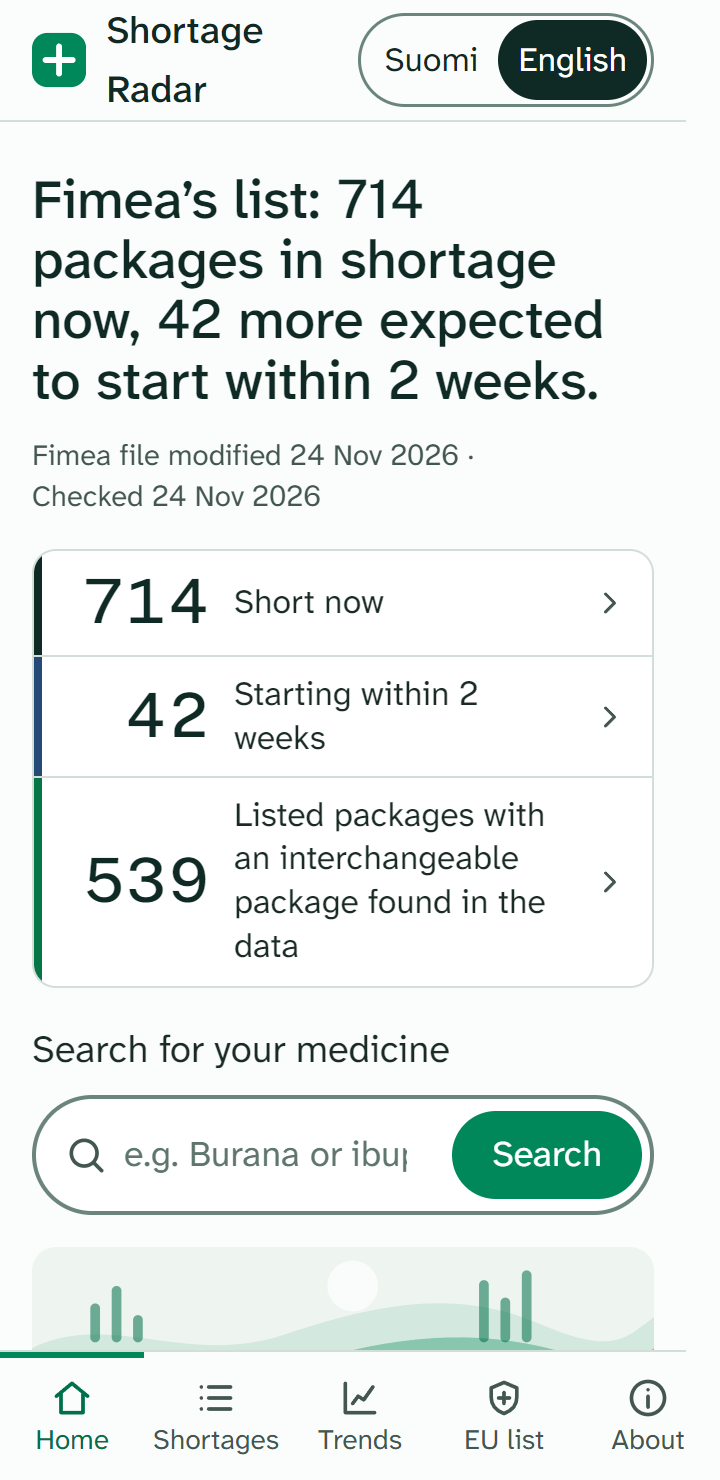
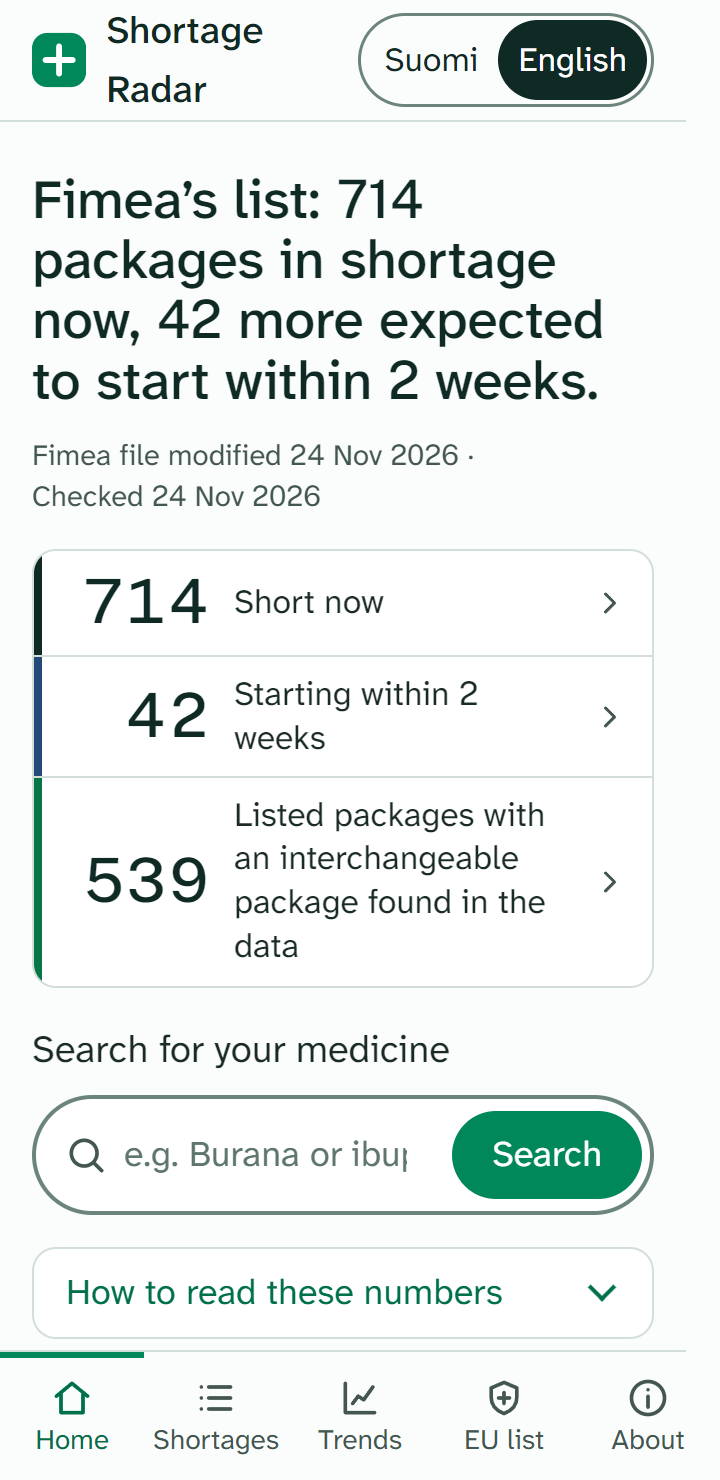
Home: saved tile links, generic status, third-count wording, Finnish notes position
A saved tile link now uses the loaded capture date when it is older, says so
on the list, and shows the count date and two-week scope. Picking a status by
hand drops the hidden tile date and window; search and sort keep them. The
third count is named as all listed packages, including starts after 2 weeks,
and Home states the count date. The notes dropdown comes before the picture so
the Finnish label stays above the bottom bar at 360 x 800.

Changed region(s): [[0.0611, 0.8392, 0.9167, 0.9324]]

diff --git a/site/i18n.js b/site/i18n.js
@@ -223,7 +223,7 @@ const copy = {
     stripNow: "Short now",
     stripSoon: "Starting within 2 weeks",
     stripSub: "Listed packages with an interchangeable package found in the data",
-    stripSubNote: "The third count is listed packages, short now or expected to start, for which Shortage Radar’s check found an interchangeable package in the data. It counts the listed packages, not the alternatives.",
+    stripSubNote: "The third count is listed packages, short now or expected to start (including any that start after 2 weeks), for which Shortage Radar’s check found an interchangeable package in the data. It counts the listed packages, not the alternatives.",
     heroFile: d=>`Fimea file modified ${d}`,
     heroChecked: d=>`Checked ${d}`,
     searchButton: "Search",
@@ -436,7 +436,10 @@ const copy = {
     impactCard_no_alternative: "No interchangeable package found in the data: no other package in its substitution group meets the check (on the market and not short in the register, and not on the shortage list). This does not mean there is no treatment. Talk to your pharmacist or doctor before your medicine runs out.",
     impactCard_nogroup: "No substitution group. Ask your pharmacist.",
     impactCard_vet: "Veterinary medicine. Ask your veterinarian or pharmacy.",
-    heroAnswer: n => `For ${numberText(n)} of them, the check found another package of the group that the register marks as on the market and not short, and that is not on the shortage list.`,
+    heroAnswer: n => `Of all packages on Fimea’s list, including any that start after 2 weeks: for ${numberText(n)}, the check found another package of the group that the register marks as on the market and not short, and that is not on the shortage list.`,
+    stripAsOf: d => `Counts are as of ${d}. “Starting within 2 weeks” means a start date up to 14 days after that date.`,
+    tileNote: (d, within) => `Counted as of ${d}${within ? `. Shows packages that start within ${within === 14 ? '2 weeks' : `${within} days`} after that date` : ''}.`,
+    tileNoteChanged: (saved, used) => `This link was saved for the data of ${saved}. The list now uses the newer data of ${used}.`,
     triageNote_substitute: "Another package in the group meets the check.",
     triageNote_no_alternative: "No other package in the group meets the check. Talk to your pharmacist or doctor before your medicine runs out.",
     triageNote_nogroup: "Often hospital medicines or medicines from one company. Ask your pharmacist.",
@@ -705,7 +708,7 @@ const copy = {
     stripNow: "Häiriö nyt",
     stripSoon: "Alkamassa 2 viikon kuluessa",
     stripSub: "Listan pakkaukset, joille aineistosta löytyy vaihtokelpoinen pakkaus",
-    stripSubNote: "Kolmas luku on listan pakkaukset, joilla on häiriö nyt tai joiden häiriön odotetaan alkavan ja joille Saatavuustutkan tarkistus löysi aineistosta vaihtokelpoisen pakkauksen. Se laskee listan pakkaukset, ei vaihtoehtoja.",
+    stripSubNote: "Kolmas luku on listan pakkaukset, joilla on häiriö nyt tai joiden häiriön odotetaan alkavan (myös yli 2 viikon kuluttua alkavat) ja joille Saatavuustutkan tarkistus löysi aineistosta vaihtokelpoisen pakkauksen. Se laskee listan pakkaukset, ei vaihtoehtoja.",
     heroFile: d=>`Fimean tiedosto muokattu ${d}`,
     heroChecked: d=>`Tarkistettu ${d}`,
     searchButton: "Hae",
@@ -917,7 +920,10 @@ const copy = {
     impactCard_no_alternative: "Aineistosta ei löydy vaihtokelpoista pakkausta: mikään ryhmän muu pakkaus ei täytä tarkistusta (rekisterin mukaan kaupan eikä häiriötä, eikä saatavuushäiriölistalla). Tämä ei tarkoita, ettei hoitoa olisi. Kysy apteekista tai lääkäriltä, ennen kuin lääkkeesi loppuu.",
     impactCard_nogroup: "Ei vaihtokelpoisuusryhmää. Kysy apteekista.",
     impactCard_vet: "Eläinlääke. Kysy eläinlääkäriltä tai apteekista.",
-    heroAnswer: n => `Niistä ${numberText(n)} pakkaukselle tarkistus löysi ryhmän toisen pakkauksen, jonka rekisteri merkitsee kaupan olevaksi eikä häiriölliseksi ja joka ei ole saatavuushäiriölistalla.`,
+    heroAnswer: n => `Fimean listan kaikista pakkauksista, myös niistä, joiden häiriö alkaa yli 2 viikon kuluttua: ${numberText(n)} pakkaukselle tarkistus löysi ryhmän toisen pakkauksen, jonka rekisteri merkitsee kaupan olevaksi eikä häiriölliseksi ja joka ei ole saatavuushäiriölistalla.`,
+    stripAsOf: d => `Luvut ovat tilanteesta ${d}. “Alkamassa 2 viikon kuluessa” tarkoittaa alkamispäivää enintään 14 päivää tämän päivän jälkeen.`,
+    tileNote: (d, within) => `Laskettu tilanteessa ${d}${within ? `. Näyttää pakkaukset, joiden häiriö alkaa ${within === 14 ? '2 viikon' : `${within} päivän`} kuluessa tästä päivästä` : ''}.`,
+    tileNoteChanged: (saved, used) => `Linkki tallennettiin tiedoilla ${saved}. Lista käyttää nyt uudempia tietoja ${used}.`,
     triageNote_substitute: "Ryhmän toinen pakkaus täyttää tarkistuksen.",
     triageNote_no_alternative: "Mikään ryhmän muu pakkaus ei täytä tarkistusta. Kysy apteekista tai lääkäriltä, ennen kuin lääkkeesi loppuu.",
     triageNote_nogroup: "Usein sairaalalääkkeitä tai vain yhden yrityksen lääkkeitä. Kysy apteekista.",

diff --git a/site/shortages.js b/site/shortages.js
@@ -4,6 +4,8 @@ const PAGE_SIZE = 30;
 let rows = [], filters = parseFilters(location.search), visible = PAGE_SIZE, loaded = false, urlTimer;
 // Earlier packages for a search the current list cannot answer: 'idle' until needed, then 'loading', 'ready' or 'error'.
 let past = {state: 'idle', rows: []};
+// The date a saved tile link was counted at, when a newer capture replaced it.
+let savedAsof = '';
 function readControls() {
   filters.q = $('search').value.trim().slice(0, 100);
   filters.impact = document.querySelector('input[name="impact"]:checked').value;
@@ -43,6 +45,9 @@ function draw() {
   // Nothing is answered before current.json is here: a miss now could be a package that is still loading.
   if (!loaded) return;
   const t = copy[language], now = listNow(filters), grouped = filters.impact === 'no_alternative';
+  // A tile link states the date and scope it was counted at, and says when the loaded data is newer than the link.
+  $('tile-note').hidden = !filters.asof;
+  $('tile-note').textContent = filters.asof ? [savedAsof ? t.tileNoteChanged(dateText(savedAsof), dateText(filters.asof)) : '', t.tileNote(dateText(filters.asof), Number(filters.within) || 0)].filter(Boolean).join(' ') : '';
   const found = sortPackages(filterPackages(rows, filters, now), filters.sort, now);
   const fallback = !found.length && Boolean(filters.q) && !activeFilters();
   if (fallback) loadPast();
@@ -81,7 +86,7 @@ function changed(resetPage = true) { if (past.state === 'error') past = {state: 
 $('finder').addEventListener('submit', e => e.preventDefault());
 $('search').addEventListener('input', () => changed());
 // A hand-picked status leaves the home tile's two-week window; the general 'Starting soon' filter stays available.
-$('finder').addEventListener('change', e => { if (e.target.id !== 'search') { if (e.target.name === 'status') delete filters.within; changed(); } });
+$('finder').addEventListener('change', e => { if (e.target.id !== 'search') { if (e.target.name === 'status') { delete filters.within; delete filters.asof; savedAsof = ''; } changed(); } });
 function clearFilters() { filters = {q: filters.q, impact: '', status: '', group: '', form: '', company: '', sort: ''}; render(); syncUrl(); }
 $('clear').addEventListener('click', clearFilters);
 $('list').addEventListener('click', e => { if (e.target.id === 'clear-inline') clearFilters(); });
@@ -96,4 +101,4 @@ $('copy-link').addEventListener('click', () => {
 // stay in view; the summary shows how many filters are on, and the panel opens on tap.
 $('filters').open = matchMedia('(min-width: 760px)').matches || (!filters.q && (FILTER_KEYS.some(k => filters[k]) || Boolean(filters.sort)));
 start(render);
-loadCurrent().then(d => { rows = relevant(d.events); loaded = true; renderChrome(d); render(); }).catch(showLoadError);
+loadCurrent().then(d => { rows = relevant(d.events); loaded = true; savedAsof = reconcileAsof(filters, d.snapshot_date); if (savedAsof) syncUrl(); renderChrome(d); render(); }).catch(showLoadError);

diff --git a/site/home.js b/site/home.js
@@ -36,12 +36,14 @@ function renderHome() {
   $('hero-label').textContent = t.heroReading;
   const counts = impactCounts();
   // The status strip: the same numbers as the headline and the triage, each linking to its list view.
+  const asof = (data && data.snapshot_date) || $('strip-asof').dataset.asof;
+  if (asof) $('strip-asof').textContent = t.stripAsOf(dateText(asof));
   // The links carry the data date, so each list opens exactly the packages its number counts, whatever the visitor's clock says.
   if (data && data.snapshot_date) {
-    const asof = `&asof=${data.snapshot_date}`;
-    $('strip-now-link').href = `shortages.html?status=now${asof}`;
-    $('strip-soon-link').href = `shortages.html?status=soon&within=${SOON_DAYS}${asof}`;
-    $('strip-sub-link').href = `shortages.html?impact=substitute${asof}`;
+    const q = `&asof=${data.snapshot_date}`;
+    $('strip-now-link').href = `shortages.html?status=now${q}`;
+    $('strip-soon-link').href = `shortages.html?status=soon&within=${SOON_DAYS}${q}`;
+    $('strip-sub-link').href = `shortages.html?impact=substitute${q}`;
   }
   if (Number.isFinite(n)) $('strip-now-num').textContent = numberText(n);
   if (Number.isFinite(n)) $('strip-soon-num').textContent = numberText(soon || 0);

diff --git a/site/lib.js b/site/lib.js
@@ -290,6 +290,12 @@ function parseFilters(search) {
 }
 // The date a list is read at: the data date from a home tile link when there is one, else today (Helsinki).
 function listNow(f) { return f.asof && parsedDate(f.asof) ? parsedDate(f.asof).valueOf() : todayUTC(); }
+// A saved tile link names the data date it was counted at. Once a newer capture is loaded the list uses the loaded date, so a package
+// that has started since is never shown as upcoming. Returns the saved date when it was replaced, else ''.
+function reconcileAsof(f, snapshotDate) {
+  if (!f.asof || !parsedDate(snapshotDate) || f.asof === snapshotDate) return '';
+  const saved = f.asof; f.asof = snapshotDate; return saved;
+}
 function filtersToQuery(f) {
   const params = new URLSearchParams();
   for (const key of ['q', ...FILTER_KEYS, 'asof', 'within', 'sort']) if (f[key]) params.set(key, f[key]);

diff --git a/site/style.css b/site/style.css
@@ -89,6 +89,7 @@ select{font:inherit;min-height:44px;width:100%;border:1.5px solid var(--line-str
 .hero-head>*{min-width:0}
 .hero .eu-hero-art{display:block;height:72px}
 .hero .home-notes{margin:0}
+.tile-note{margin:var(--s2) 0 0}
 .hero .home-notes>p{max-width:60ch;margin:var(--s2) 0 0}
 .hero h1#hero-line{font-size:clamp(1.5rem,1.2rem + 1.6vw,2.75rem);max-width:20ch;margin:0}
 .hero-fresh{display:flex;flex-wrap:wrap;gap:0 .35em;color:var(--muted);font-size:.8125rem;line-height:1.4;margin:calc(var(--s1) * -1) 0 0}

diff --git a/scripts/pages.py b/scripts/pages.py
@@ -146,6 +146,11 @@ def strip_tile(key, href, num, label, text, hidden=False):
             '<svg class="uicon strip-go" viewBox="0 0 24 24" width="18" height="18" aria-hidden="true" focusable="false"><path d="m9 6 6 6-6 6"/></svg></a></li>')
 
 
+def _en_date(iso):
+    y, m, d = iso.split('-')
+    return f"{int(d)} {'Jan Feb Mar Apr May Jun Jul Aug Sep Oct Nov Dec'.split()[int(m) - 1]} {y}"
+
+
 def strip_href(query, as_of):
     """A tile's list link: the same data date as the tile's count, so the list shows exactly the packages counted."""
     return 'shortages.html?' + query + (f'&asof={as_of}' if as_of else '')
@@ -156,7 +161,8 @@ def home(count, impact=None, soon=0, as_of=''):
     line = f'Fimea’s list: {count:,} {"package" if count == 1 else "packages"} in shortage now{f", {soon:,} more expected to start within 2 weeks" if soon else ""}.'
     impact = impact or {}
     sub, vet = impact.get('substitute', 0), impact.get('vet', 0)
-    answer = f'<p class="hero-answer" id="hero-answer" data-count="{sub}">For {sub:,} of them, the check found another package of the group that the register marks as on the market and not short, and that is not on the shortage list.</p>' if impact else '<p class="hero-answer" id="hero-answer"></p>'
+    answer = f'<p class="hero-answer" id="hero-answer" data-count="{sub}">Of all packages on Fimea’s list, including any that start after 2 weeks: for {sub:,}, the check found another package of the group that the register marks as on the market and not short, and that is not on the shortage list.</p>' if impact else '<p class="hero-answer" id="hero-answer"></p>'
+    asof_text = f'Counts are as of {_en_date(as_of)}. “Starting within 2 weeks” means a start date up to 14 days after that date.' if as_of else ''
     vet_line = f'Also on the list: {vet:,} veterinary {"medicine" if vet == 1 else "medicines"}.'
     strip = ''.join([strip_tile('now', strip_href('status=now', as_of), count, 'stripNow', 'Short now'),
                      strip_tile('soon', strip_href('status=soon&within=14', as_of), soon, 'stripSoon', 'Starting within 2 weeks'),
@@ -169,15 +175,16 @@ def home(count, impact=None, soon=0, as_of=''):
 <label for="q" data-i18n="homeSearchLabel">Search for your medicine</label>
 <div class="searchrow">{search_icon()}<input id="q" name="q" type="search" autocomplete="off" maxlength="100" placeholder="e.g. Burana or ibuprofen" data-i18n-attr="placeholder=placeholder"><button type="submit" class="btn" data-i18n="searchButton">Search</button></div>
 </form>
-{hero_art()}
 <details class="eu-fold eu-notes home-notes"><summary data-i18n="homeNotes">How to read these numbers</summary>
 <p class="hero-label" id="hero-label" data-i18n="heroReading">Our reading of Fimea’s register, not a stock check.</p>
 {answer}
 <p id="hero-sub" data-i18n="heroSub">Includes shortages that have started and ones expected within two weeks. A listing does not tell you whether a medicine is available at your pharmacy.</p>
-<p data-i18n="stripSubNote">The third count is listed packages, short now or expected to start, for which Shortage Radar’s check found an interchangeable package in the data. It counts the listed packages, not the alternatives.</p>
+<p id="strip-asof" data-asof="{as_of}">{asof_text}</p>
+<p data-i18n="stripSubNote">The third count is listed packages, short now or expected to start (including any that start after 2 weeks), for which Shortage Radar’s check found an interchangeable package in the data. It counts the listed packages, not the alternatives.</p>
 <p data-i18n="triageVetNote">Substitution groups are for human medicines.</p>
 <p class="note"><span data-i18n="triageHint">Counts are packages. “On the market” is not a pharmacy stock check.</span> <a href="about.html#impact" data-i18n="impactLink">What the impact label means</a></p>
 <p class="hint" data-i18n="hint">Search by medicine, active substance, ATC, company or VNR.</p></details>
+{hero_art()}
 </div>
 <section class="triage" id="triage" aria-labelledby="triage-title" data-impact="{escape(','.join(f'{k}:{impact.get(k, 0)}' for k in ('substitute', 'no_alternative', 'nogroup', 'vet')) if impact else '', quote=True)}"><h2 id="triage-title" data-i18n="impactQuestion">Interchangeable packages in the data</h2>
 <ul class="triage-list" id="triage-list">{triage_list(impact)}</ul>
@@ -228,6 +235,7 @@ def shortages():
 <div class="wrap results needs-js">
 <p class="crit-callout" id="crit-callout" hidden><svg class="uicon" viewBox="0 0 24 24" width="24" height="24" aria-hidden="true" focusable="false">{IMPACT_ICONS['no_alternative']}</svg><span id="crit-callout-text"></span> <a href="shortages.html?impact=no_alternative" id="crit-show" data-i18n="critShow">Show them by medicine</a></p>
 <p class="crit-intro" id="crit-intro" data-i18n="critIntro" hidden>One row for each medicine and form. Open a row to see its packages. Talk to your pharmacist or doctor about these medicines before your medicine runs out.</p>
+<p class="note tile-note" id="tile-note" hidden></p>
 <div class="list-meta"><p id="result-count" aria-live="polite" aria-atomic="true"></p><button type="button" class="btn-quiet" id="copy-link" data-i18n="copyLink">Copy search link</button><span id="copy-status" role="status"></span></div>
 <div id="list" class="pkg-list"><p class="state" id="loading">Loading…</p></div>
 <div class="more"><p id="more-count"></p><button type="button" class="btn" id="more" data-i18n="more" hidden>Show more</button></div>

diff --git a/tests/test_pages.py b/tests/test_pages.py
@@ -77,7 +77,8 @@ def test_home_top_keeps_headline_strip_search_and_one_closed_dropdown_for_the_re
     assert top.count('<details') == 1 and '<details class="eu-fold eu-notes home-notes">' in top
     box = top[top.index('<details'):top.index('</details>')]
     assert 'data-i18n="homeNotes">How to read these numbers</summary>' in box
-    for caveat in ('Our reading of Fimea’s register, not a stock check.', 'For 539 of them, the check found another package',
+    assert 'including any that start after 2 weeks' in box
+    for caveat in ('Our reading of Fimea’s register, not a stock check.', 'for 539, the check found another package',
                    'A listing does not tell you whether a medicine is available at your pharmacy.', 'Substitution groups are for human medicines.',
                    '“On the market” is not a pharmacy stock check.', 'Search by medicine, active substance, ATC, company or VNR.', 'href="about.html#impact"'):
         assert caveat in box, caveat
